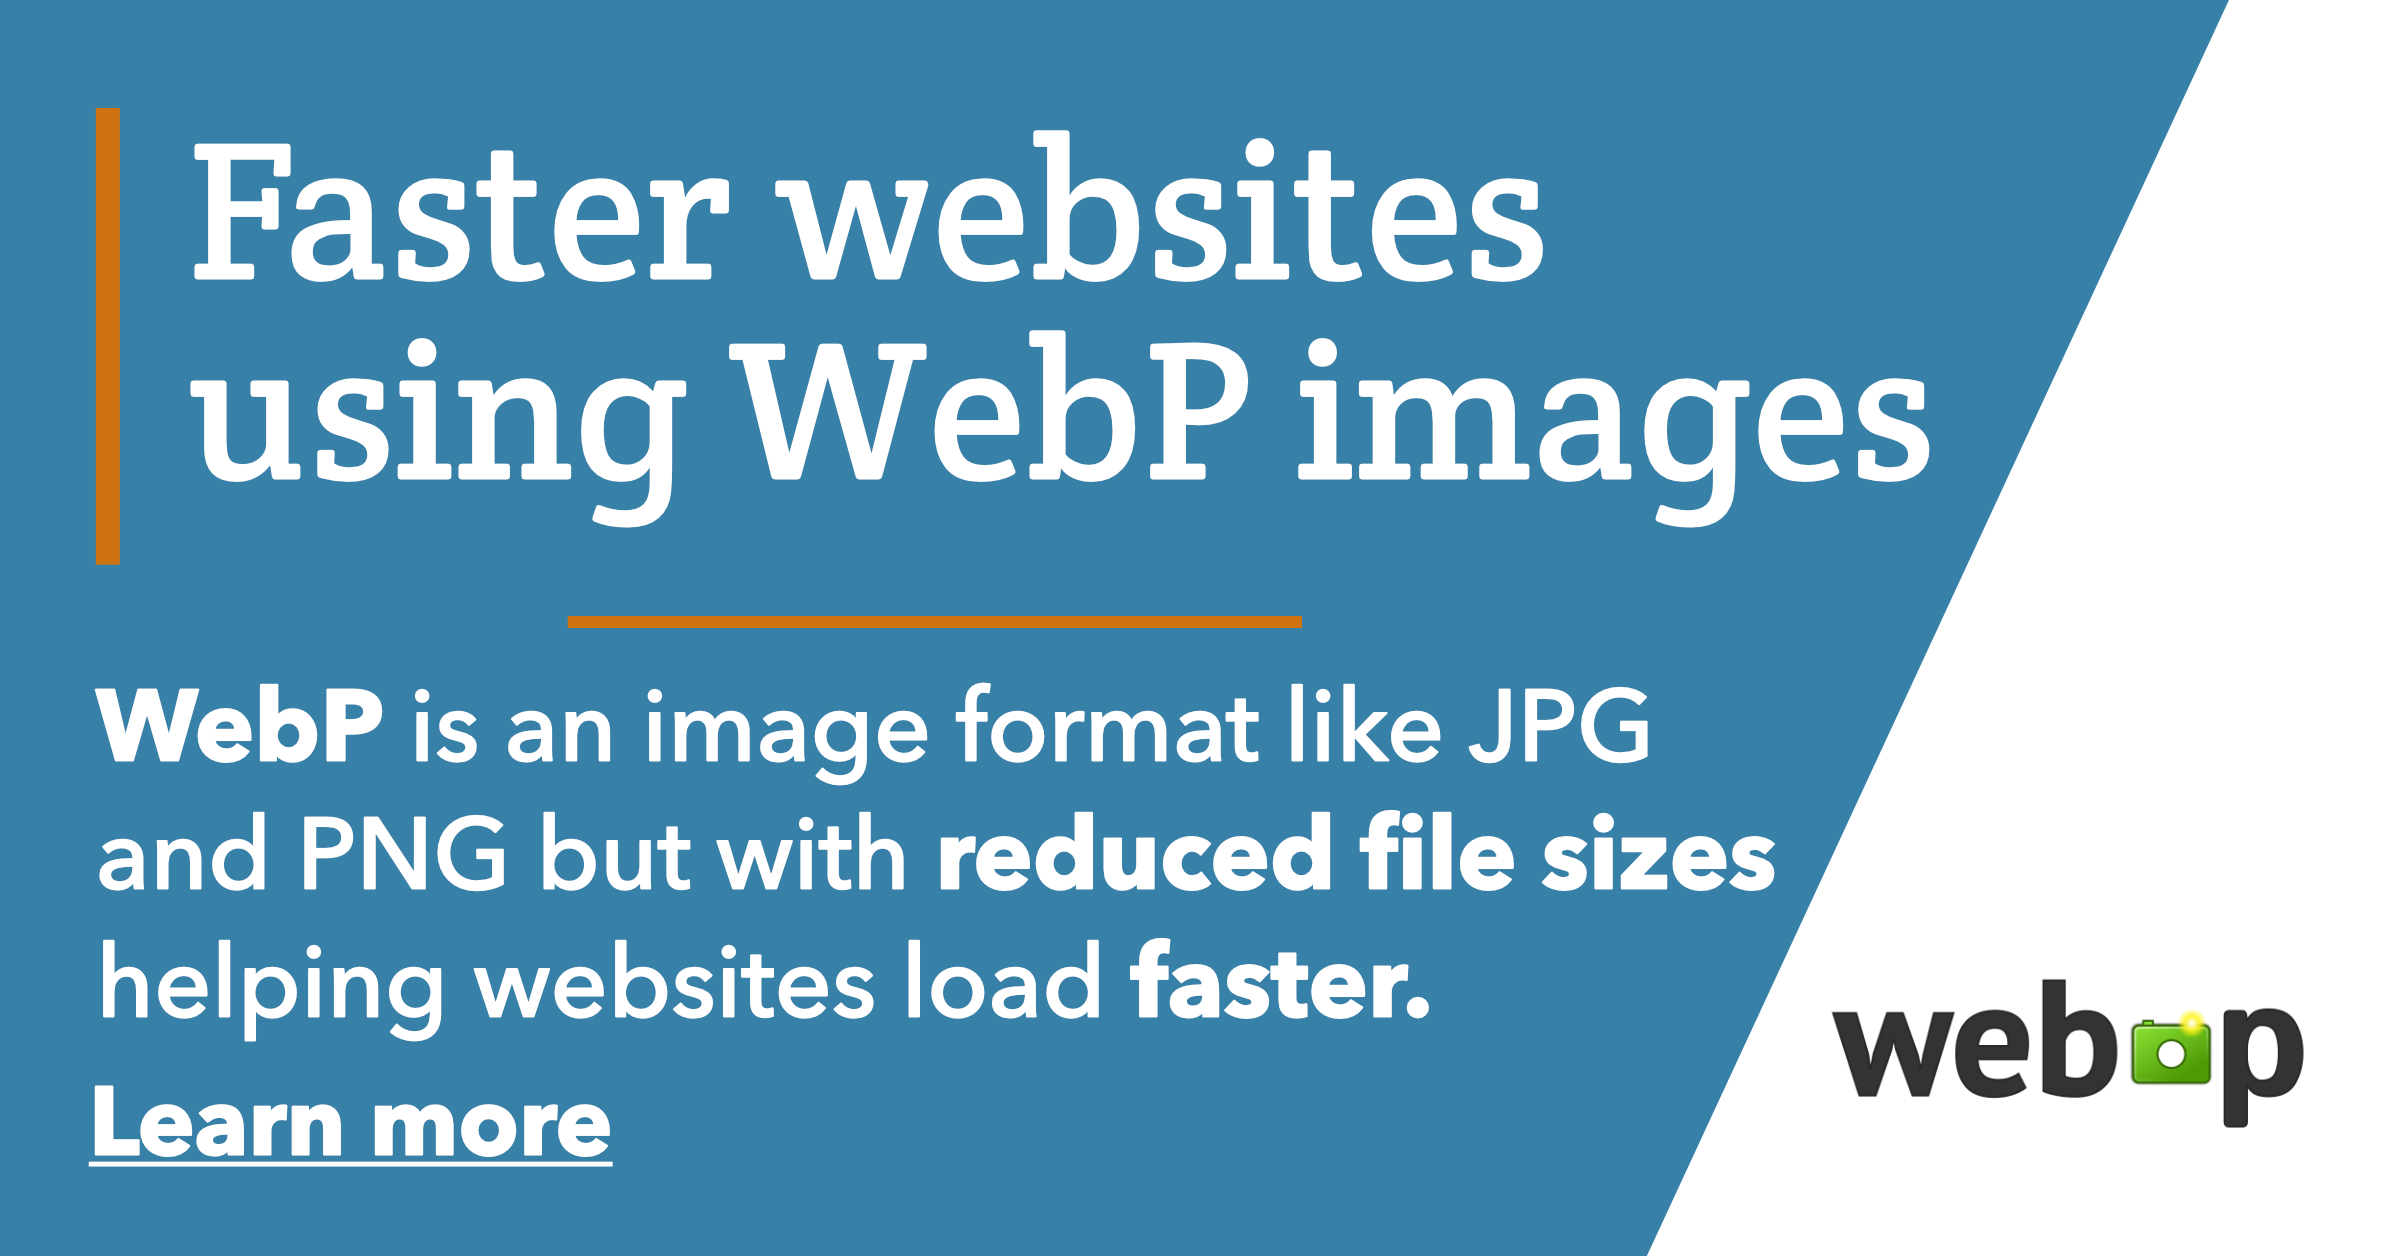
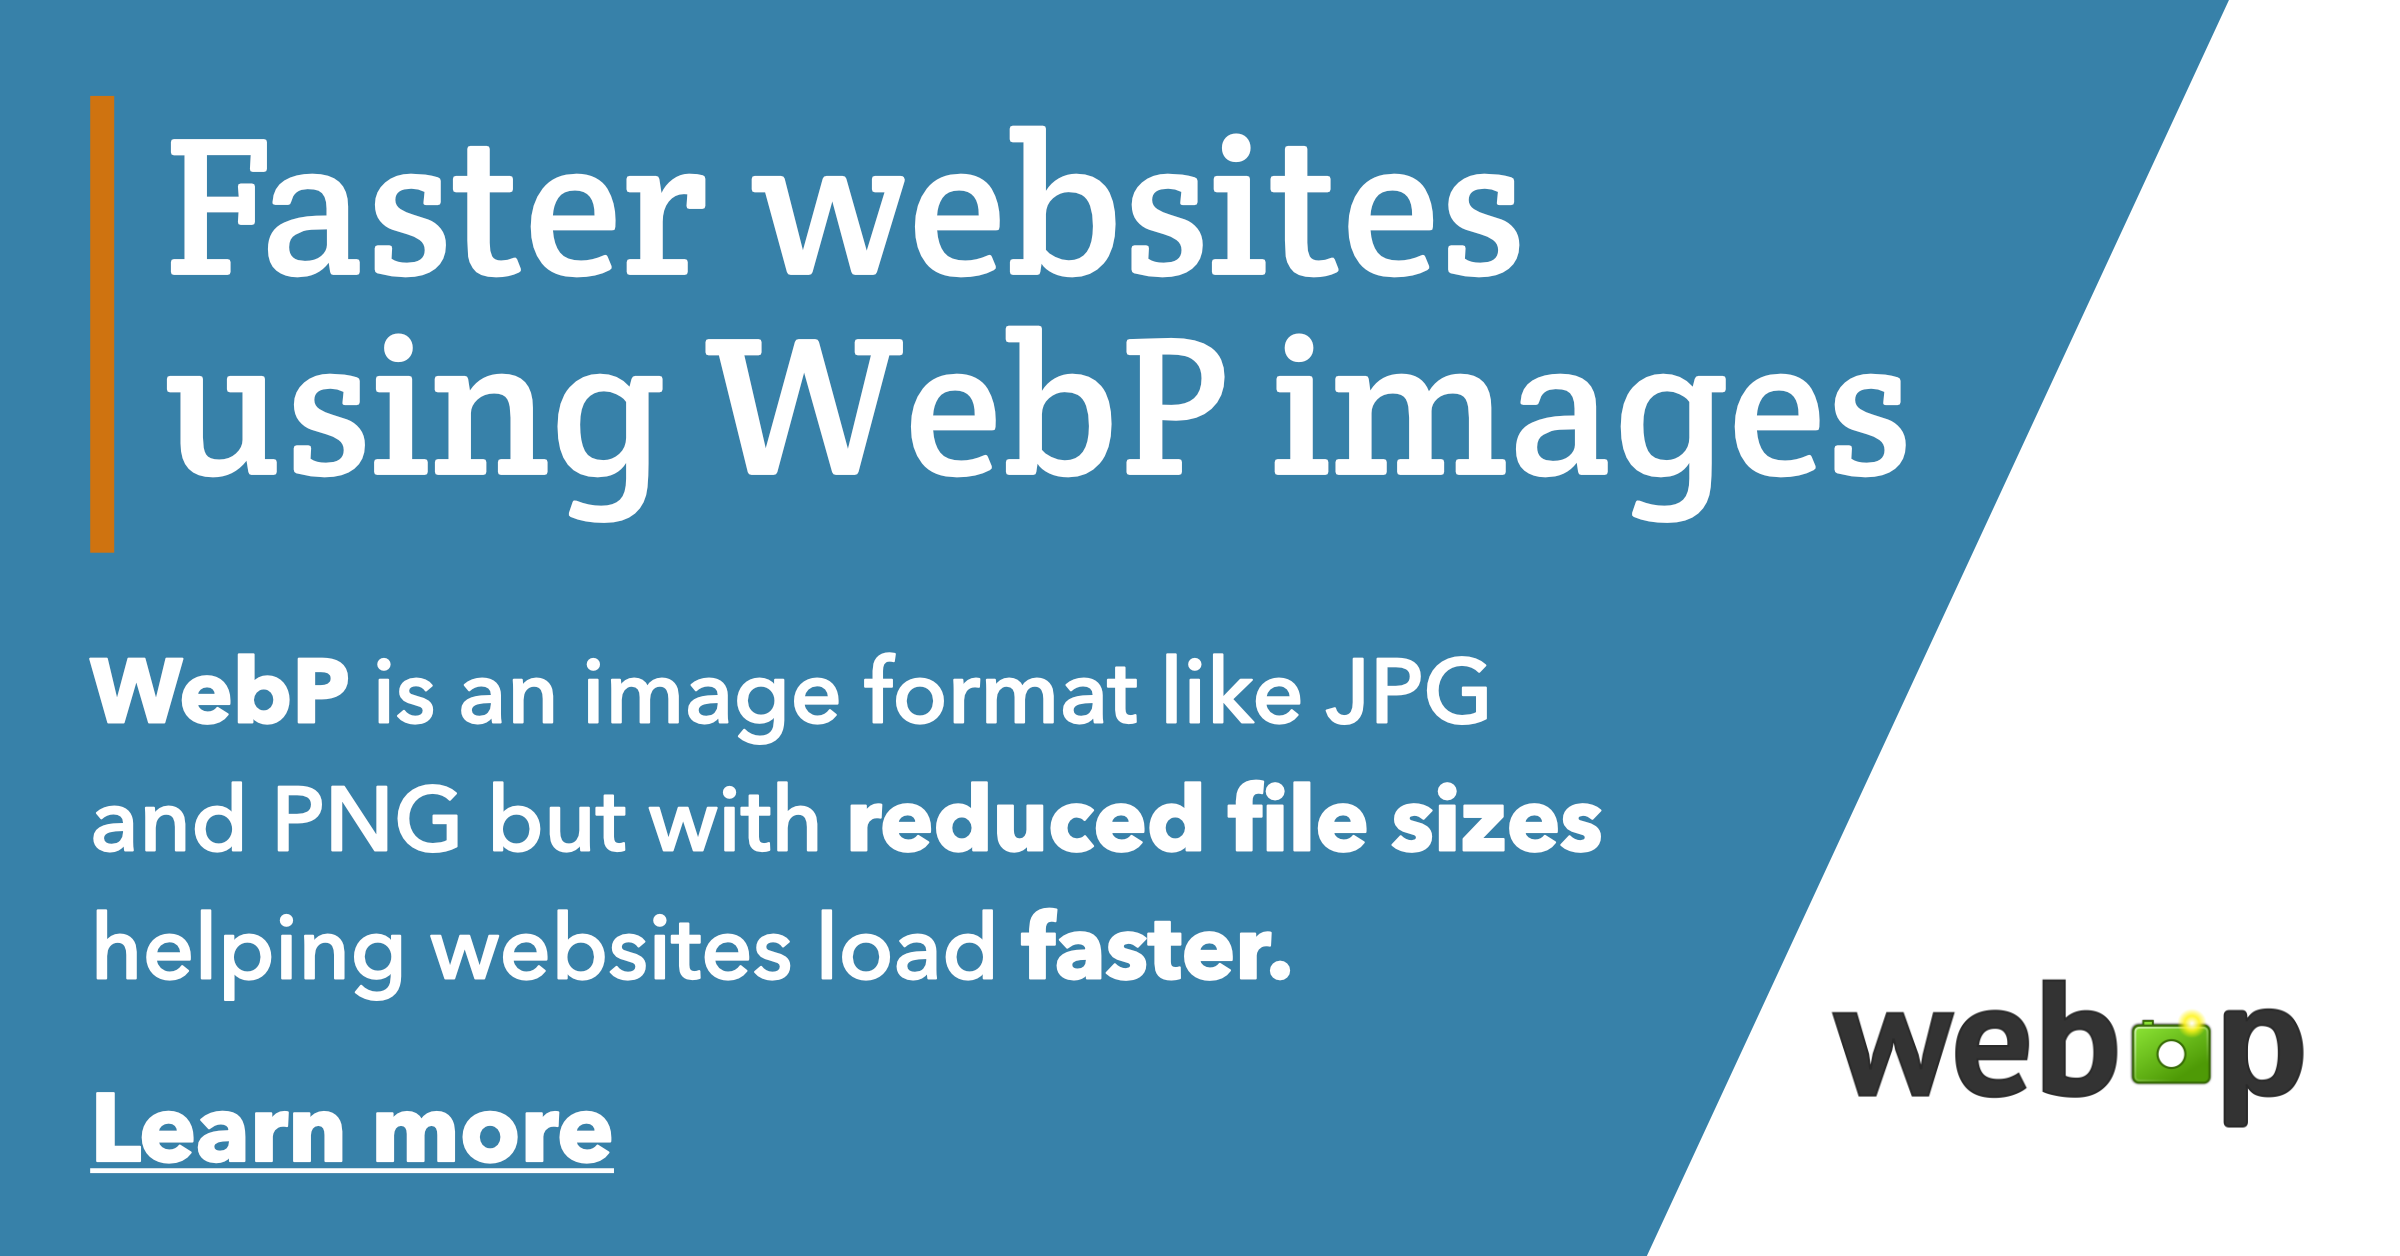
social image default

Changed region(s): [[0.0312, 0.4658, 0.75, 0.8384], [0.0312, 0.0621, 0.8125, 0.4658], [0.0312, 0.8694, 0.2812, 0.9626]]

diff --git a/src/index.md b/src/index.md
@@ -5,7 +5,7 @@ postsHeading: Recent articles
 archiveButtonText: See all articles
 metaTitle: Terry O'Brien - Development & Optimisation Consultant 
 metaDesc: Helping businesses create accessible, mobile friendly, fast loading websites. Let me help you build websites that convert and help your users.
-socialImage: ''
+socialImage: '/images/social-images/default.png'
 introCta1Btn: 'More about me'
 introCta1Url: '/about'
 introCta2Btn: "Let's work together"
